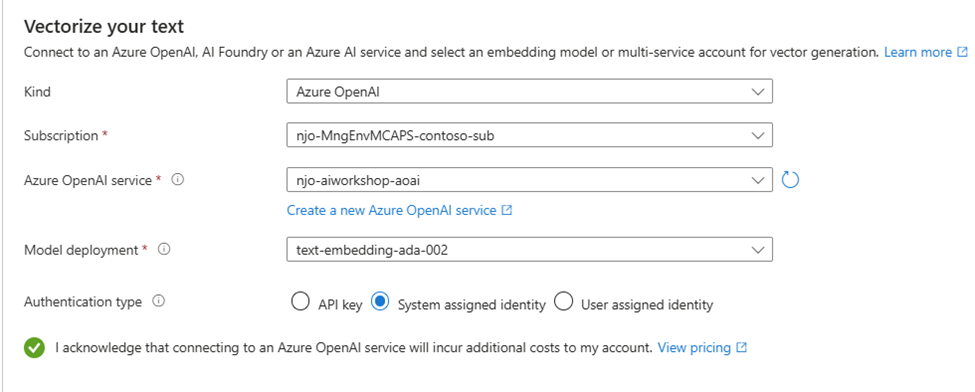
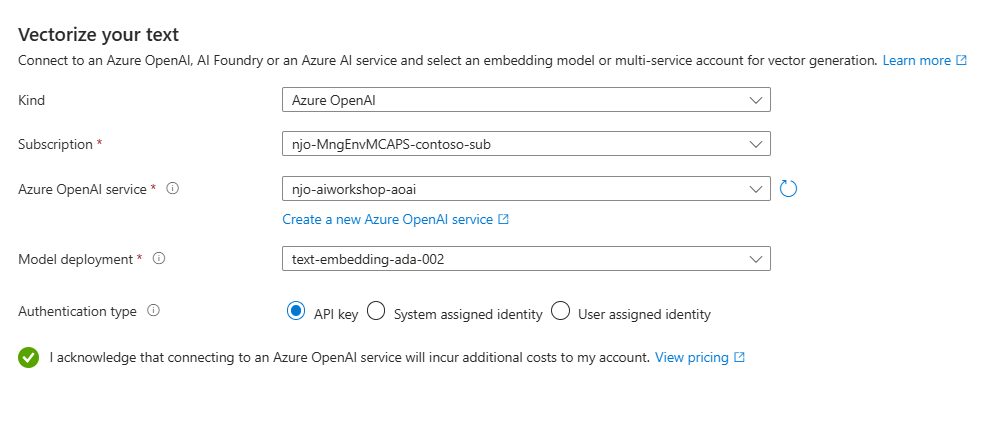
Update to section 1.3

diff --git a/day1/1.3.2-Integrated Vector Indexing.md b/day1/1.3.2-Integrated Vector Indexing.md
@@ -5,6 +5,16 @@ The wizard chunks your content and calls an embedding model to vectorize content
 
 ### <span style="color:Yellow"> Discussion: AI search - connectivity to AI Foundry models and AI servies! </span>
 
+<span style="color:Red">
+
+### Pre-requisites: 
+
+* You should have Azure Open AI service created and deployed text embedding model (eg: text-embedding-ada-002)
+
+* You should have AI multi service account created in the same region 
+
+</span>
+
 ### Instructions: 
 
 1.	From Azure portal go to your Azure AI Search service.
@@ -41,11 +51,14 @@ The wizard chunks your content and calls an embedding model to vectorize content
 
 	•	Azure OpenAI
 
-	•	Choose the Azure subscription and open AI service name. Eg: aiworkshop1-aoai and choose embedding model.  text-embedding-ada-002 (or other open AI embedding if you deployed earlier)
+	•	Choose the Azure subscription and open AI service name. Eg: aiworkshop1-aoai 
+	and choose embedding model.  text-embedding-ada-002 (or other open AI embedding if you deployed earlier)
 
-9.	Select system-assigned managed identity options to authenticate search service.
+	<span style="color:Red">***Note**: If you have not already created Azure Open AI service and deployed Text Embedding model, click on 'Create New Azure Open AI service' option and create AOAI service. Also deploy text-embedding-ada-002 or similar model.*</span>
 
-	•	The identity should have a Cognitive Services User role on the Azure AI multi-services account.
+9.	Select API Key as authentication method here. 
+
+	<span style="color:Red">***Note**: You can later switch to Managed Identity by assigning similar permissions between AI Search and AI Foundry AI services*</span>
 
 10.	Select the checkbox that acknowledges the billing effects of using these resources.
 
@@ -60,6 +73,12 @@ The wizard chunks your content and calls an embedding model to vectorize content
 13.	Select Extract text from images option – which will add AI Skills to perform OCR and pull text from images. 
 
 14.	Select subscription and multi service AI account created in the same region. Eg: aiworkshop1-ai-multiservice
+
+	<span style="color:Red">***Note**: If you have not already created AI multi-service (outside of AI Foundry) then click on 'Create New AI service' link to create new AI service account. This multi service account will be used for AI Skills(eg:OCR)*</span>
+	
+	Use API Key authentication here. 
+
+	<span style="color:Red"> ***Note**: You can later switch to Managed Identity by assigning similar permissions between AI Search and AI Foundry AI services* </span>
 
 	![alt text](../images/32_image-4.png)
 
@@ -118,5 +137,13 @@ Go to Data +indexes section in your AI Foundry Hub project and create new index 
 	![alt text](../images/32_image-10.png)
 
 
-#### Reference: *[Vectorize text and images by using the Azure portal - Azure AI Search | Microsoft Learn](https://learn.microsoft.com/en-us/azure/search/search-get-started-portal-import-vectors?tabs=sample-data-storage%2Cmodel-aoai%2Cconnect-data-storage)*
+<br/>
+<br/>
+<br/>
+
+---
+<br/>
+
+
+### <span style="color:Yellow"> Reference: *[Vectorize text and images by using the Azure portal - Azure AI Search | Microsoft Learn](https://learn.microsoft.com/en-us/azure/search/search-get-started-portal-import-vectors?tabs=sample-data-storage%2Cmodel-aoai%2Cconnect-data-storage)* </span>
 

diff --git a/day1/1.3.1-Add Your Data - Foundry Vector Index.md b/day1/1.3.1-Add Your Data - Foundry Vector Index.md
@@ -2,6 +2,16 @@
 
 ### <span style="color:Yellow"> Discussion: Common RAG architecture concepts.</span>
 
+<span style="color:Red">
+
+### Pre-requisites: 
+
+* Ensure you have completed all the setup steps specified in section 1.1 (Azure AI Foundry setup)
+
+* The following steps assume you have set up managed identities and assigned all permissions as described in previous sections.
+
+</span>
+
 ### Instructions: 
 1. Access Data and Indexes:
 
